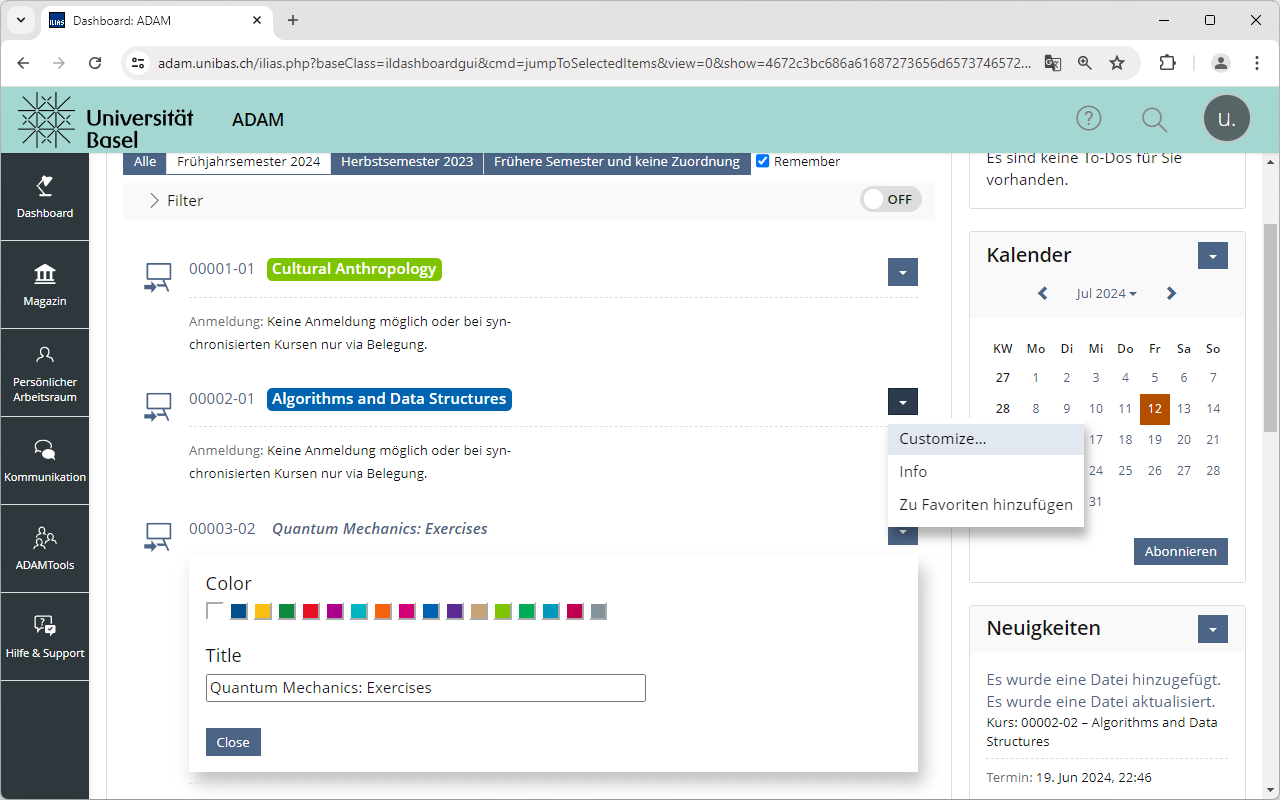
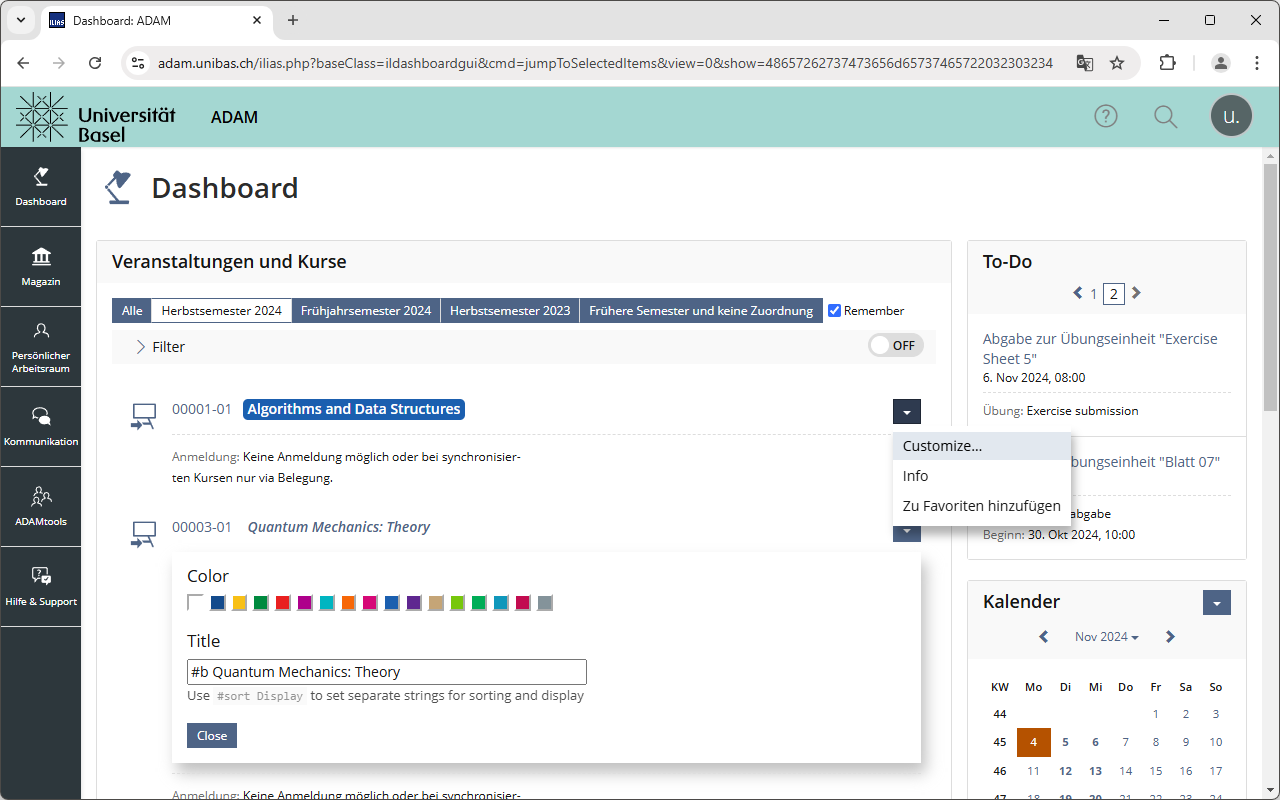
Bump version number, update branding

diff --git a/extension/src/worker.js b/extension/src/worker.js
@@ -4,6 +4,6 @@ chrome.runtime.onInstalled.addListener(event => {
 	if (event.reason === chrome.runtime.OnInstalledReason.INSTALL) {
 		chrome.tabs.create({ url: 'https://thechnet.github.io/adamatic' });
 	} else if (event.reason === chrome.runtime.OnInstalledReason.UPDATE) {
-		chrome.tabs.create({ url: 'https://thechnet.github.io/adamatic?changes=2.1.0' });
+		// chrome.tabs.create({ url: 'https://thechnet.github.io/adamatic?changes=2.2.0' });
 	}
 });

diff --git a/README.md b/README.md
@@ -11,7 +11,7 @@ Feature|Screenshot
 ---|---
 Enter your Switch edu-ID credentials in the extension's popup window to enable the automatic login. <br> <br> <i class="disclaimer">Be aware that ADAMatic doesn't encrypt your edu-ID credentials, and that depending on how your browser is configured, they may be synchronized between your devices through unencrypted channels.</i>|![](branding/login.png)
 Enable the **Remember** option to preserve the course list selection across sessions.|![](branding/remember.png)
-Use **Customize…** in the dropdown menu of any course to personalize its label.|![](branding/labels.png)
+Use **Customize…** in the dropdown menu of any course to personalize its label and adjust its sort order.|![](branding/labels.png)
 <!--@end-->
 
 ## Installation

diff --git a/CHANGELOG.md b/CHANGELOG.md
@@ -1,6 +1,6 @@
 # Changelog
 
-## Unreleased
+## [2.2.0] - 2024-11-05
 
 ### Added
 
@@ -66,7 +66,8 @@
 
 - Initial release.
 
-[Unreleased]: https://github.com/thechnet/adamatic/compare/v2.1.0...HEAD
+[Unreleased]: https://github.com/thechnet/adamatic/compare/v2.2.0...HEAD
+[2.2.0]: https://github.com/thechnet/adamatic/compare/v2.1.0...v2.2.0
 [2.1.0]: https://github.com/thechnet/adamatic/compare/v2.0.0...v2.1.0
 [2.0.0]: https://github.com/thechnet/adamatic/compare/v1.3.0...v2.0.0
 [1.3.0]: https://github.com/thechnet/adamatic/compare/v1.2.0...v1.3.0
